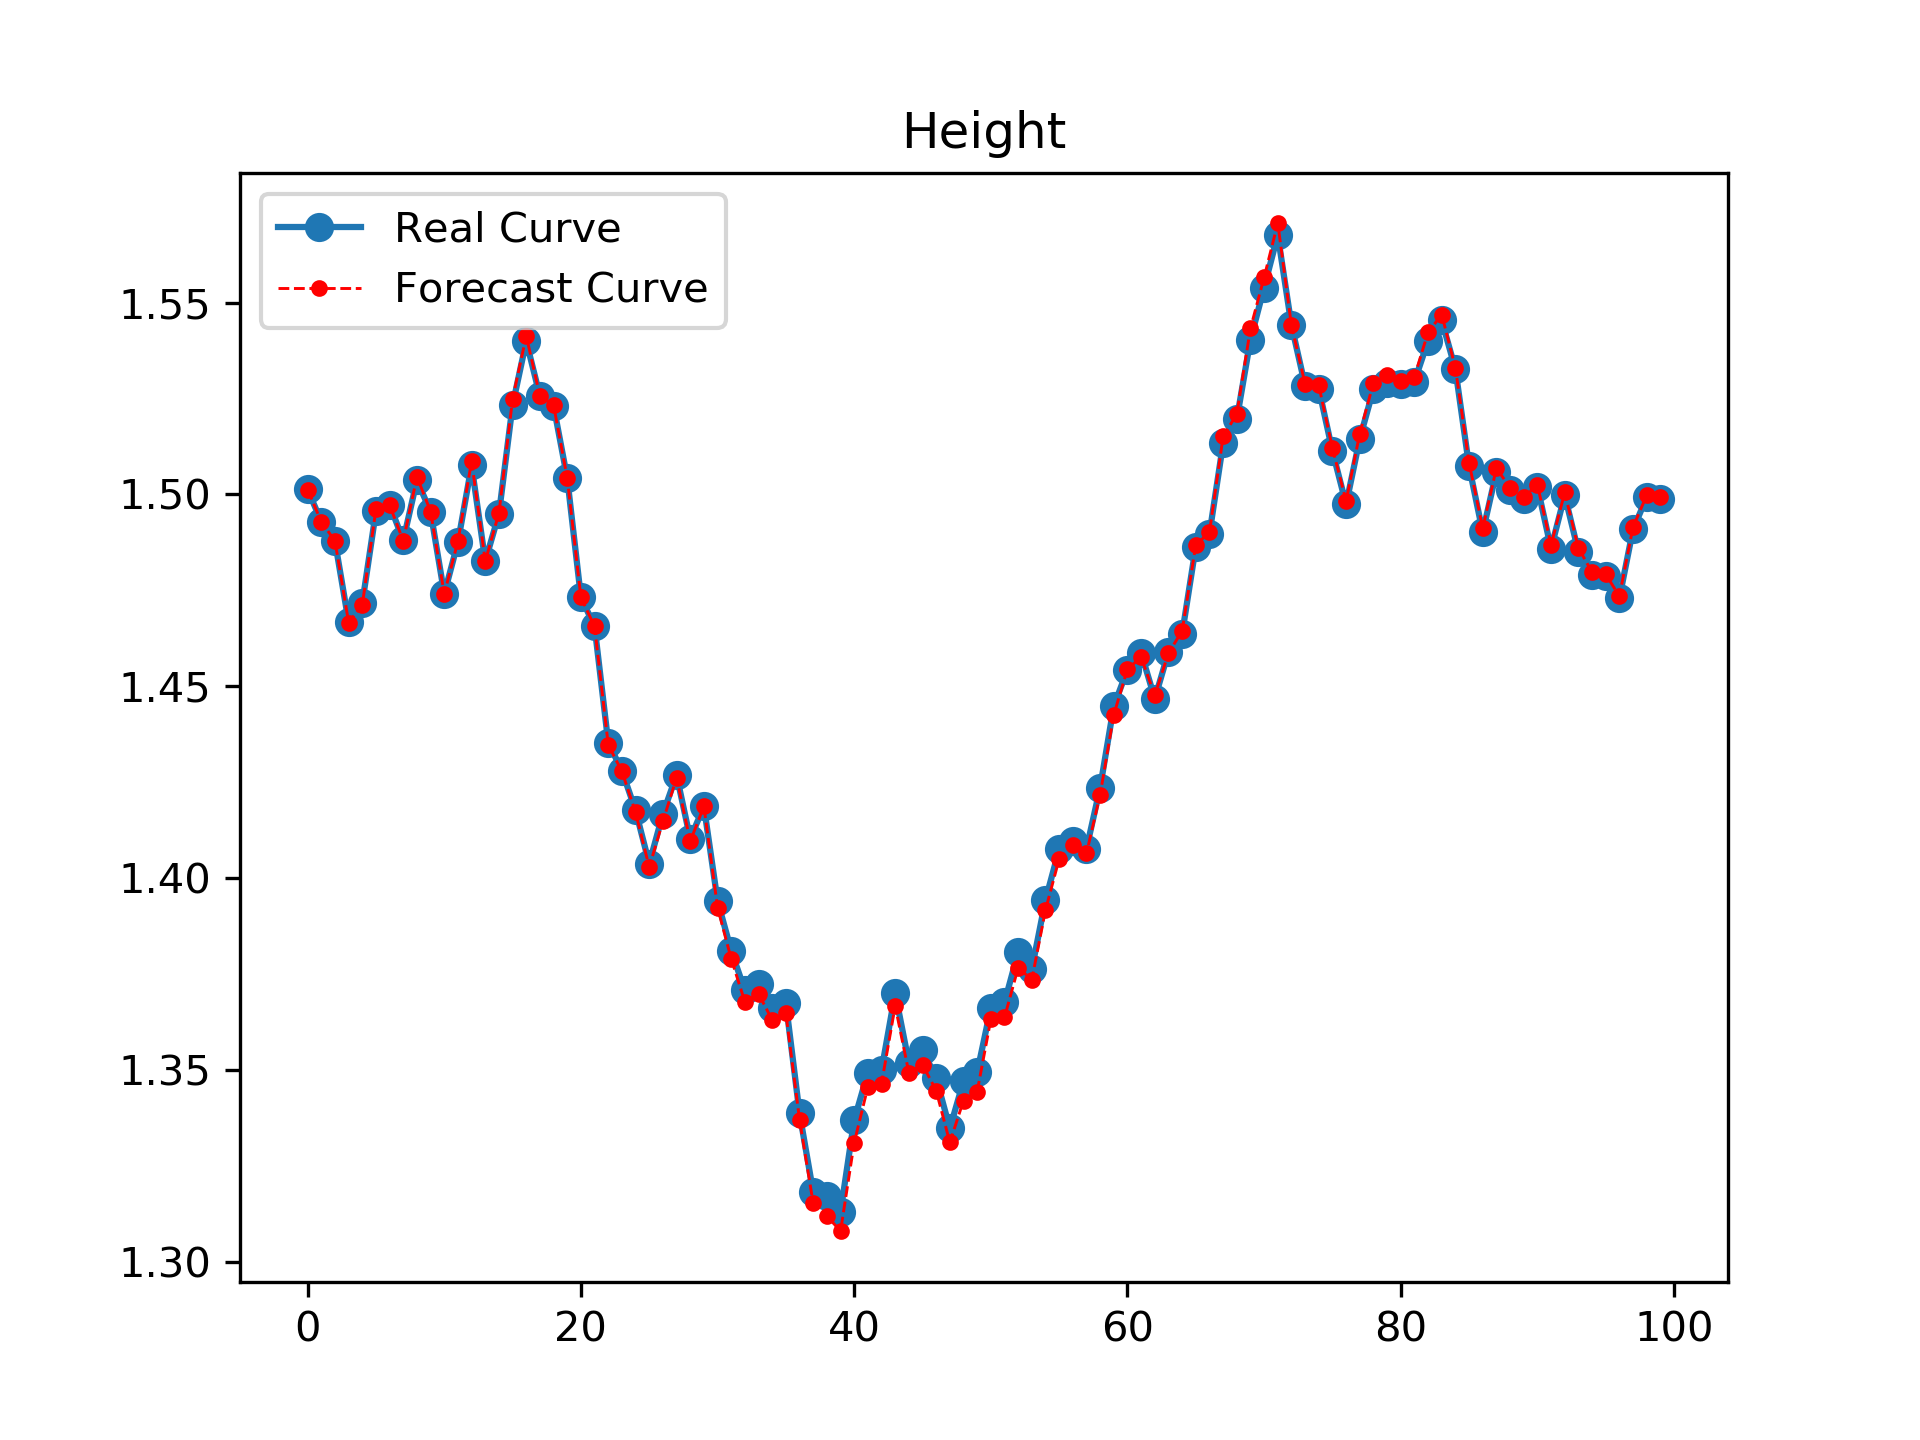
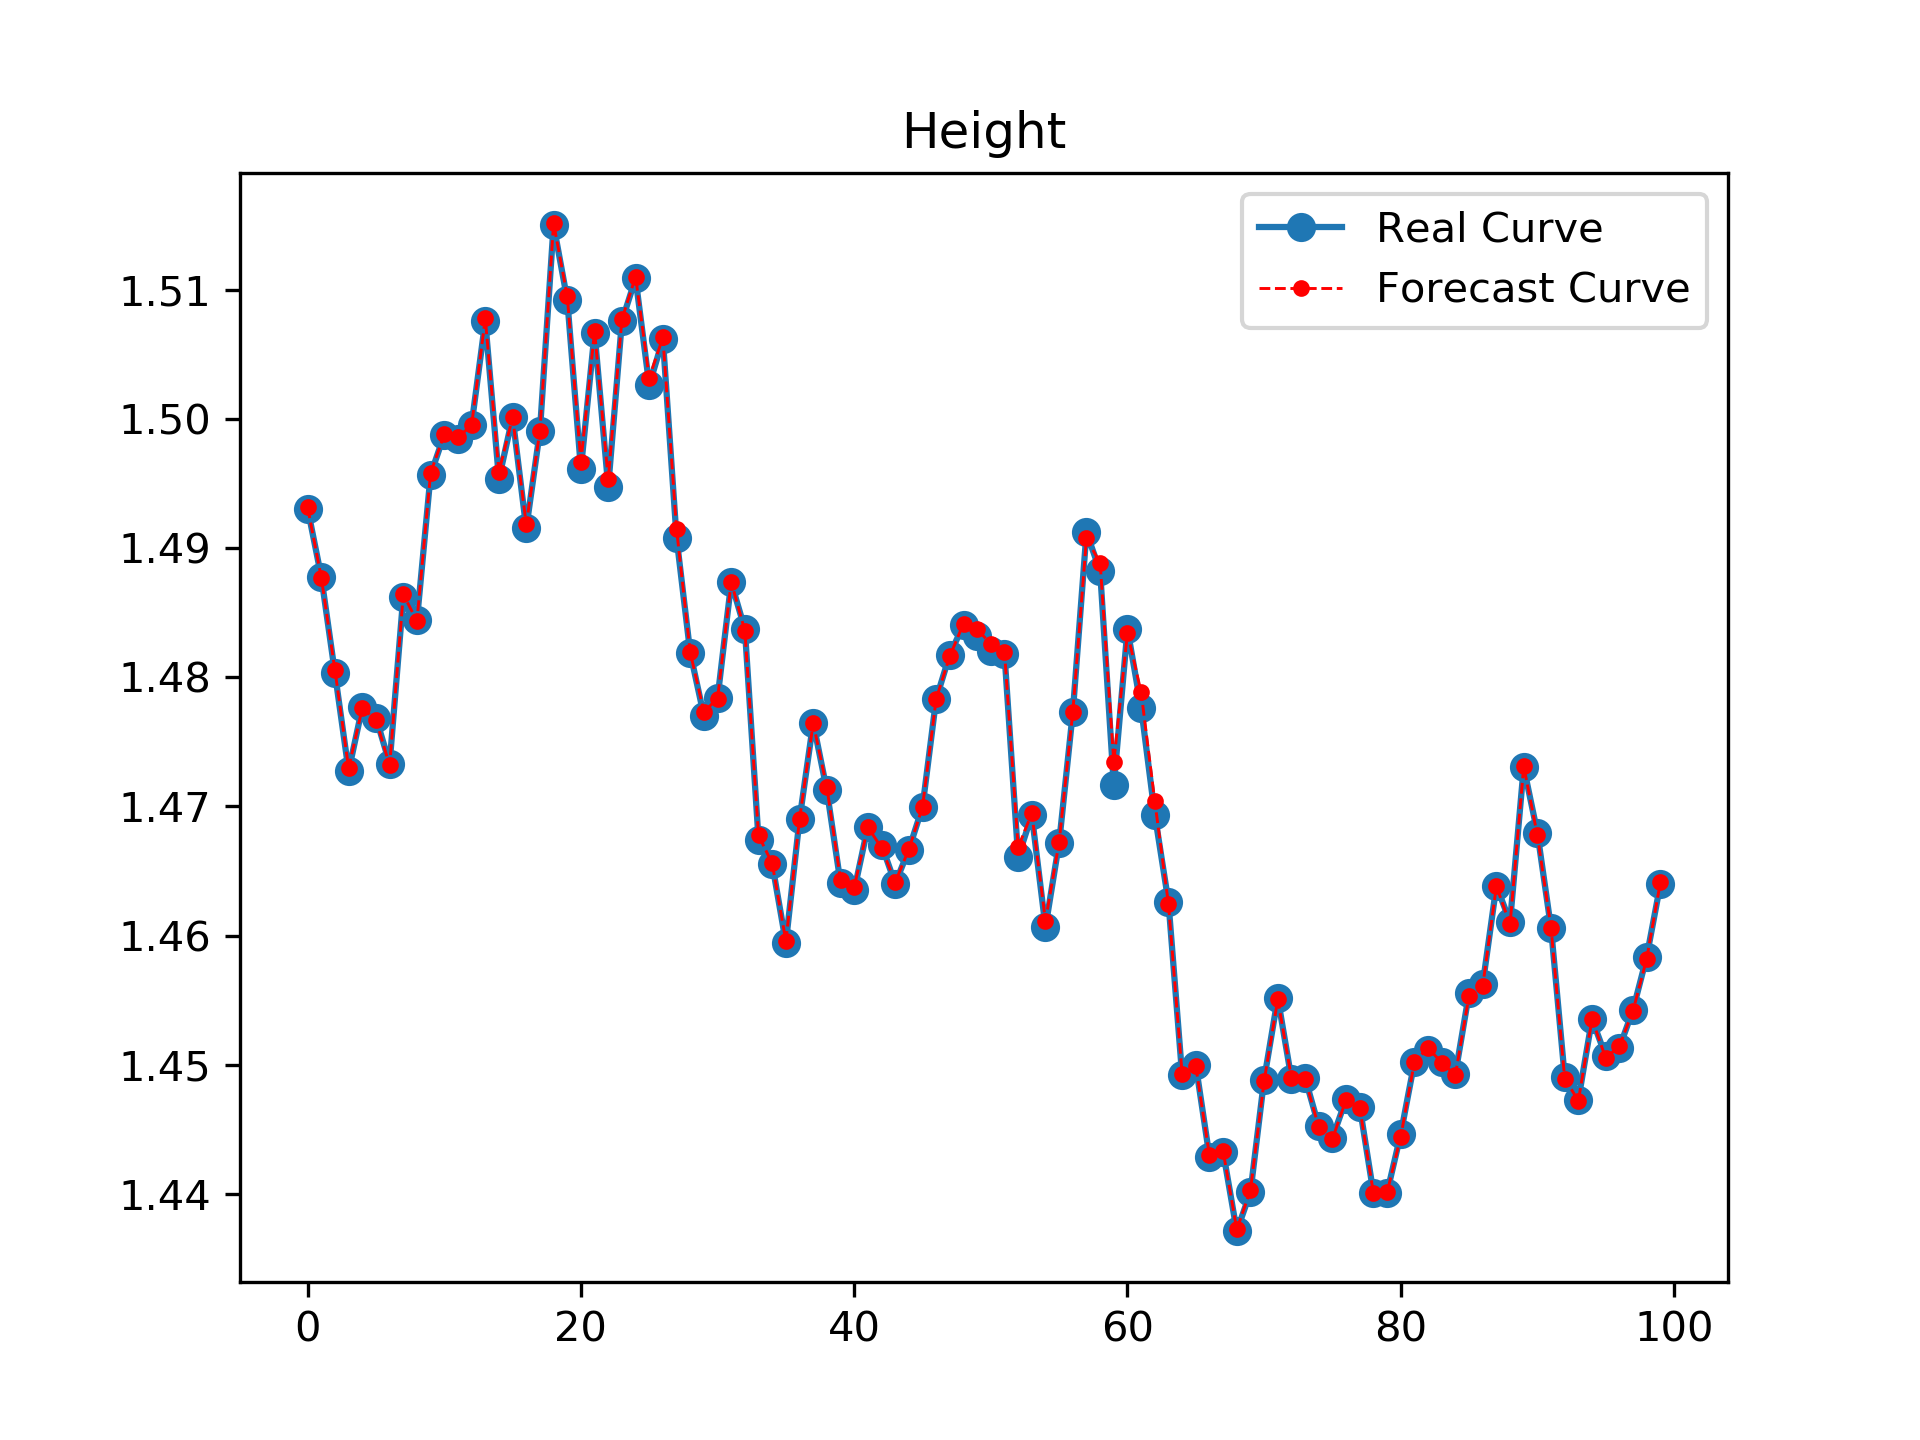
for ppt end

diff --git a/Control_Exp1001/demo/thickener/value_iterate.py b/Control_Exp1001/demo/thickener/value_iterate.py
@@ -189,7 +189,7 @@ class VI(ACBase):
         self.delta_u = self.env.u_bounds[:, 1] - self.env.u_bounds[:, 0]
         self.mid_u = np.mean(self.env.u_bounds, axis=1)
         x = torch.FloatTensor(np.hstack((y, y_star,c))).unsqueeze(0)
-        print('#' * 20)
+        #print('#' * 20)
 
         # region 基于python scipy.optimize.minimize 求最优act
         # 可能由于fun太过复杂，最后求得得x几乎与x0相同，该方案阉割
@@ -321,8 +321,11 @@ class VI(ACBase):
 
         # region 使用torch自带优化器来求解最优act
 
-        act = torch.nn.Parameter(torch.rand((1,self.env.size_yudc[1])))
+        act = torch.nn.Parameter(2*torch.rand((1,self.env.size_yudc[1]))-1)
         opt = torch.optim.Adam(params=[act], lr=0.1)
+        act_begin = np.copy(act.data.numpy()).squeeze()
+        act_list = []
+        act_list.append(np.copy(act.data.numpy()).squeeze())
         while True:
             old_act = act.clone()
             diff_U = torch.FloatTensor(self.u_bounds[:,1]-self.u_bounds[:,0])
@@ -343,17 +346,11 @@ class VI(ACBase):
             J_loss.backward()
             opt.step()
             act.data = torch.nn.Parameter(torch.clamp(act,min=-1,max=1)).data
+            act_list.append(np.copy(act.data.numpy()).squeeze())
             if torch.dist(act, old_act)<1e-4:
                 break
 
         act = act.detach().numpy()
-
-
-
-
-
-
-
 
         # endregion
         #print("final act:", act)
@@ -376,6 +373,9 @@ class VI(ACBase):
         # self.actor_nn[-1].weight.requires_grad = False
         # self.actor_nn[-1].bias.requires_grad = False
 
+        # if (self.step-1) % 20  == 0:
+        #     self.test_critic_nn(title='round:'+str(self.step), cur_state=y, act_list=act_list)
+
         return act
 
 
@@ -395,6 +395,7 @@ class VI(ACBase):
         # 更新模型
         self.update_model(state, action, reward, next_state, done)
 
+
     def update_model(self,state, action, penalty, next_state, done):
 
         tmp_state = np.copy(state)
@@ -412,8 +413,6 @@ class VI(ACBase):
         c = torch.index_select(state, 1, indices_c)
         nc = torch.index_select(next_state, 1, indices_c)
 
-        # if (self.step-1) % 100  == 0:
-        #     self.test_critic_nn(title='round:'+str(self.step))
 
 
         # region update model nn
@@ -458,7 +457,7 @@ class VI(ACBase):
             if critic_loss < self.critic_nn_error_limit:
                 break
             # endregion
-        print('step:',self.step, 'critic loop',loop_time)
+        # print('step:',self.step, 'critic loop',loop_time)
 
 
 
@@ -503,7 +502,7 @@ class VI(ACBase):
         # 生成训练数据
         print("模拟生成")
         for _ in range(rounds):
-            print(_)
+            #print(_)
             y = self.env.observation()[2:4]
             act = np.random.uniform(self.u_bounds[:,0], self.u_bounds[:,1])
             c = self.env.observation()[6:8]
@@ -547,6 +546,7 @@ class VI(ACBase):
                 self.env.reset()
         real_y_array = np.array(real_y_list)
         pred_y_array = np.array(pred_y_list)
+        self.con_predict_mse = mean_squared_error(real_y_array[:,1], pred_y_array[:,1])
 
         for i in range(self.env.size_yudc[0]):
             plt.plot(np.arange(real_y_array.shape[0]), real_y_array[:,i], 'o-')
@@ -558,6 +558,7 @@ class VI(ACBase):
 
             plt.savefig('./images/'+str(self.env.y_name[i])+"_predict"+
                         self.__class__.__name__+'.png', dpi=300)
+
             plt.show()
 
     def cal_predict_mse(self, test_rounds=1000, diff=False):
@@ -596,6 +597,7 @@ class VI(ACBase):
         return new_y.reshape(-1)
 
     def normalize_state(self,state):
+        state = np.array(state)
         state_max = np.hstack([self.y_max, self.x_max])
         state_min = np.hstack([self.y_min, self.x_min])
         new_state = 2*(state - state_min)/(state_max-state_min) - 1
@@ -688,30 +690,73 @@ class VI(ACBase):
 
     def test_c_f(self,y1,y2):
         y = self.normalize_y(np.array([y1, y2]))
-        c = self.normalize_c(np.array([40, 73]))
+
+        if self.step<200:
+            c = self.normalize_c(np.array([40, 73]))
+        else:
+            c = self.normalize_c(np.array([35, 65]))
         y_star = self.normalize_y(np.array([1.48, 680]))
         input_critic = np.hstack([y, y_star, c])
         tmp = torch.FloatTensor(input_critic).unsqueeze(0)
         J_pred = self.critic_nn(tmp).squeeze().data
         return float(J_pred)
 
-    def test_critic_nn(self,title):
+    def test_c_f_u(self,u1,u2):
+
+        act = torch.FloatTensor([[u1, u2]])
+        diff_U = torch.FloatTensor(self.u_bounds[:,1]-self.u_bounds[:,0])
+        det_u = torch.nn.functional.linear(input=act, weight=torch.diag(diff_U/2))
+        # penalty_u = (det_u.mm(torch.FloatTensor(self.env.penalty_calculator.S)).mm(
+        #     det_u.t()
+        # )).diag().unsqueeze(dim=1)
+        penalty_u = (det_u.mm(torch.FloatTensor(self.env.penalty_calculator.S)).mm(
+            det_u.t()
+        )).diag()
+        if self.step<200:
+            c = self.normalize_c(np.array([40, 73]))
+        else:
+            c = self.normalize_c(np.array([35, 65]))
+        c=torch.FloatTensor([c])
+        y = self.sstate
+        y_star = self.normalize_y([1.48, 680])
+        y_star = torch.FloatTensor([y_star])
+        y_pred = self.model_nn(torch.cat((y, act, c), dim=1))
+        J_pred = self.critic_nn(torch.cat((y_pred, y_star, c), dim=1))
+        #penalty_u = torch.zeros(J_pred.shape)
+        J_loss = penalty_u + self.gamma * J_pred
+        return float(J_loss)
+
+    def test_critic_nn(self,cur_state=None, title="None",act_list=None):
+        act_list = np.array(act_list)
+        if act_list is None:
+            act_list=[]
         fig = plt.figure()
         y_min = self.y_min
         y_max = self.y_max
 
         X , Y = np.meshgrid(np.linspace(y_min[0], y_max[0], 30),
                             np.linspace(y_min[1], y_max[1], 30))
-        f = np.frompyfunc(self.test_c_f,2,1)
-        J_pred_res = f(X,Y)
+
         X1, Y1 = np.meshgrid(
-            np.linspace(-1, 1, 30),
-            np.linspace(-1, 1, 30)
+            np.linspace(-1, 1, 60),
+            np.linspace(-1, 1, 60)
         )
+        f = np.frompyfunc(self.test_c_f,2,1)
+        self.sstate = cur_state
+        f_u = np.frompyfunc(self.test_c_f_u,2,1)
+        J_pred_res = f(X,Y)
+        J_pred_res_u = f_u(X1, Y1)
         plt.contourf(X, Y, J_pred_res, 16, alpha=.75, cmap='jet')
         plt.colorbar()
         #C = contour(X, Y, J_pred_list, 8, colors='black', linewidth=.5)
         plt.title((title))
+        plt.show()
+        # 绘制横纵坐标为U的图
+        plt.contourf(X1, Y1, J_pred_res_u, 32, alpha=.75, cmap='jet')
+        plt.colorbar()
+        #C = contour(X, Y, J_pred_list, 8, colors='black', linewidth=.5)
+        plt.title((title+'-action'))
+        plt.scatter(act_list[:, 0],act_list[:, 1], marker='o', s=30, c='y')
         plt.show()
 
 

diff --git a/Control_Exp1001/demo/thickener/run.py b/Control_Exp1001/demo/thickener/run.py
@@ -20,14 +20,19 @@ penalty_para = {
     #"weight_matrix": [0, 0.002],
     "weight_matrix": [0, 0.004],
     #"S": [0.00001, 0.00008],
-    "S": [0.0001, 0.0008]
+    "S": [0.0001, 0.0008],
 }
 thickner_para = {
     "dt":1,
     "noise_in": False,
     "noise_p": 0.002,
     "noise_type": 1,
+    #'time_length':40
 }
+mse_vi_pre=[]
+mse_vi_sample_pre=[]
+mse_vi=[]
+mse_vi_sample=[]
 def test_model_hidden():
 
     env = Thickener(noise_in=True)
@@ -145,7 +150,7 @@ def run_vi(rounds=1000,seed=random.randint(0,1000000),name='VI',capacity=2,
                     **thickner_para,
                     )
 
-
+    mse_vi_pre.append(vi.con_predict_mse)
     res1 = OneRoundExp(controller=vi, env=env_vi,max_step=rounds, exp_name=name).run()
 
 
@@ -164,6 +169,8 @@ def run_vi_sample(rounds=1000,seed=random.randint(0,1000000),name='VI_sample',ca
         **thickner_para,
     )
     res1 = OneRoundExp(controller=vi_sample, env=env_vi_sample,max_step=rounds, exp_name=name).run()
+
+    mse_vi_sample_pre.append(vi_sample.con_predict_mse)
     return res1
 
 def compare_hdp_hdpsample():
@@ -209,7 +216,7 @@ def vi_compare_hdp():
     predict_round=800
     res_list = []
     rand_seed = np.random.randint(0,10000000)
-    rand_seed = 320743
+    # rand_seed = 320743
     res_list.append(run_vi(rounds=round,seed=rand_seed, name='VI', predict_round=predict_round))
     res_list.append(run_hdp(rounds=round,seed=rand_seed, name='HDP', predict_round=predict_round))
     eval_res = OneRoundEvaluation(res_list=res_list)
@@ -245,7 +252,11 @@ def vi_compare_sample():
 
 
     eval_res = OneRoundEvaluation(res_list=res_list)
-    eval_res.plot_all()
+    mse_dict = eval_res.plot_all()
+
+    mse_vi.append(mse_dict['VI'])
+    mse_vi_sample.append(mse_dict['VI_sample'])
+
 
 def vi_diff_capacity():
 
@@ -261,6 +272,40 @@ def vi_diff_capacity():
     eval_res.plot_all()
 
 
+def vi_compard_simple_multi_times():
+    for i in range(3):
+        vi_compare_sample()
+        #vi_compare_sample()
+        os.remove('training_data_800.json')
+
+    print(mse_vi_sample)
+    print(mse_vi)
+    print(mse_vi_sample_pre)
+    print(mse_vi_pre)
+    fig1 = plt.figure()
+    colors = ['b', 'g', 'r', 'orange']
+    label = ['VI_sample control', 'VI control','VI_sample predict','VI predict control']
+    for id, array in enumerate([mse_vi_sample, mse_vi, mse_vi_sample_pre, mse_vi_pre]):
+        array = np.array(array)
+        std = np.std(array)
+        mean = np.mean(array)
+        array=(array-mean)/std
+        plt.scatter(np.arange(0,10,10), array, c=colors[id], cmap='brg', s=40, alpha=0.2, marker='8', linewidth=0)
+    ax = fig1.gca()
+
+    for label in ax.xaxis.get_ticklabels():
+        label.set_rotation(30)
+    plt.xlabel('Time')
+    plt.ylabel('Price')
+    # added this to get the legend to work
+    handles, labels = ax.get_legend_handles_labels()
+    ax.legend(handles, labels=label, loc='upper right')
+    plt.title('Relations between MSE in control and MSE in forecast')
+    plt.show()
+
+    from scipy.stats import pearsonr
+    print('pearson:', pearsonr(mse_vi_pre+mse_vi_sample_pre, mse_vi+mse_vi_sample))
+
 if __name__ == '__main__':
 
     # HDP算法单独运行
@@ -272,11 +317,12 @@ if __name__ == '__main__':
     # run_hdp_sample()
     # compare_hdp_hdpsample()
     # vi_diff_capacity()
-    # for i in range(1):
-    #     vi_compare_sample()
-    #     #vi_compare_sample()
-    #     os.remove('training_data_800.json')
-    vi_compare_hdp()
+    for i in range(3):
+        vi_compare_sample()
+        #vi_compare_sample()
+        os.remove('training_data_800.json')
+
+    # vi_compare_hdp()
 
 
 

diff --git a/Control_Exp1001/exp/data_package.py b/Control_Exp1001/exp/data_package.py
@@ -83,6 +83,7 @@ class DataPackage:
             plt.show()
 
     def cal_mse(self):
+        mse_dict={}
         if "set point" not in self.data.keys():
             return
         for pic_id in range(1, self.size):
@@ -96,5 +97,11 @@ class DataPackage:
                 print("MSE\t%s\t%f"%(key, mean_squared_error(
                     set_point, values_array[:, pic_id]
                 )))
+                if self.value_name[pic_id] == 'Concentration(out)':
+                    mse_dict[key] = mean_squared_error(
+                    set_point, values_array[:, pic_id]
+                )
+        return mse_dict
+
 
 

diff --git a/Control_Exp1001/demo/thickener/test.py b/Control_Exp1001/demo/thickener/test.py
@@ -1,17 +1,14 @@
-class A:
-    def __init__(self,
-                 a=1,
-                 b=2
-                 ):
-        self.a=a
-        self.b=b
+from matplotlib import pyplot as plt
 
+import numpy as np
 
-class B(A):
-    def __init__(self,**para):
-        super(B, self).__init__(**para)
+x,y = np.meshgrid(
+    np.linspace(0,1,10),
+    np.linspace(0,1,10)
+)
 
-
-if __name__ == '__main__':
-    t = B(a=1,b=7)
-    print(t.a, t.b)
+plt.contourf(x, y, x+y,  16, alpha=.75, cmap='jet')
+plt.colorbar()
+plt.scatter([0.4,0.1],[0.4,0.8], c='k',s=5)
+plt.legend(['11','22'])
+plt.show()

diff --git a/Control_Exp1001/simulation/thickener.py b/Control_Exp1001/simulation/thickener.py
@@ -202,9 +202,9 @@ class Thickener(BaseEnv):
         if self.noise_type is None:
 
             if self.noise_in and np.random.uniform(0,1) < self.noise_p:
-                print('*'*20)
-                print('update c')
-                print('*'*20)
+                # print('*'*20)
+                # print('update c')
+                # print('*'*20)
                 c = np.random.multivariate_normal(mean=self.mean_c, cov=self.cov_c)
                 # 限制c的上下限
                 c = self.bound_detect(c, self.c_bounds)[2]

diff --git a/Control_Exp1001/demo/thickener/hdp.py b/Control_Exp1001/demo/thickener/hdp.py
@@ -232,8 +232,8 @@ class HDP(ACBase):
         c = torch.index_select(state, 1, indices_c)
         nc = torch.index_select(next_state, 1, indices_c)
 
-        if (self.step-1) % 30 == 0:
-            self.test_critic_nn(title='round:'+str(self.step))
+        # if (self.step-1) % 30 == 0:
+        #     self.test_critic_nn(title='round:'+str(self.step))
 
 
         # region update model nn

diff --git a/Control_Exp1001/demo/thickener/one_round_evaluation.py b/Control_Exp1001/demo/thickener/one_round_evaluation.py
@@ -31,7 +31,7 @@ class OneRoundEvaluation():
 
     def plot_all(self):
         self.y_data.plt()
-        self.y_data.cal_mse()
+        mse_dict = self.y_data.cal_mse()
         self.u_data.plt()
         self.c_data.plt()
         self.d_data.plt()
@@ -39,3 +39,4 @@ class OneRoundEvaluation():
         #     x.plt()
 
         self.penalty_data.plt()
+        return mse_dict
